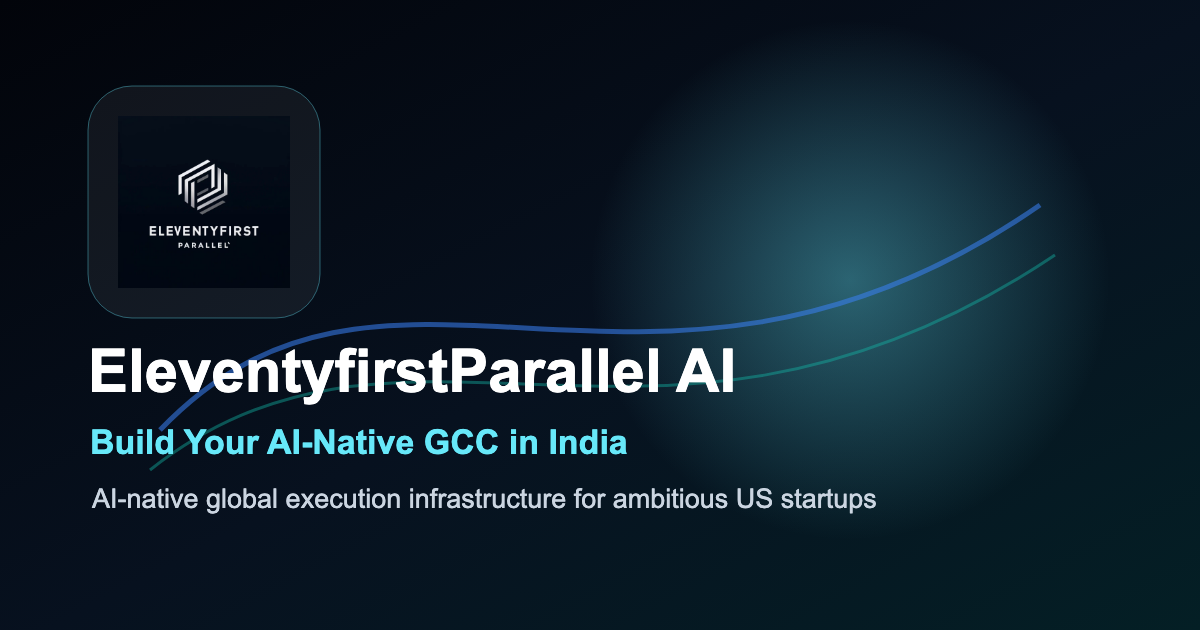
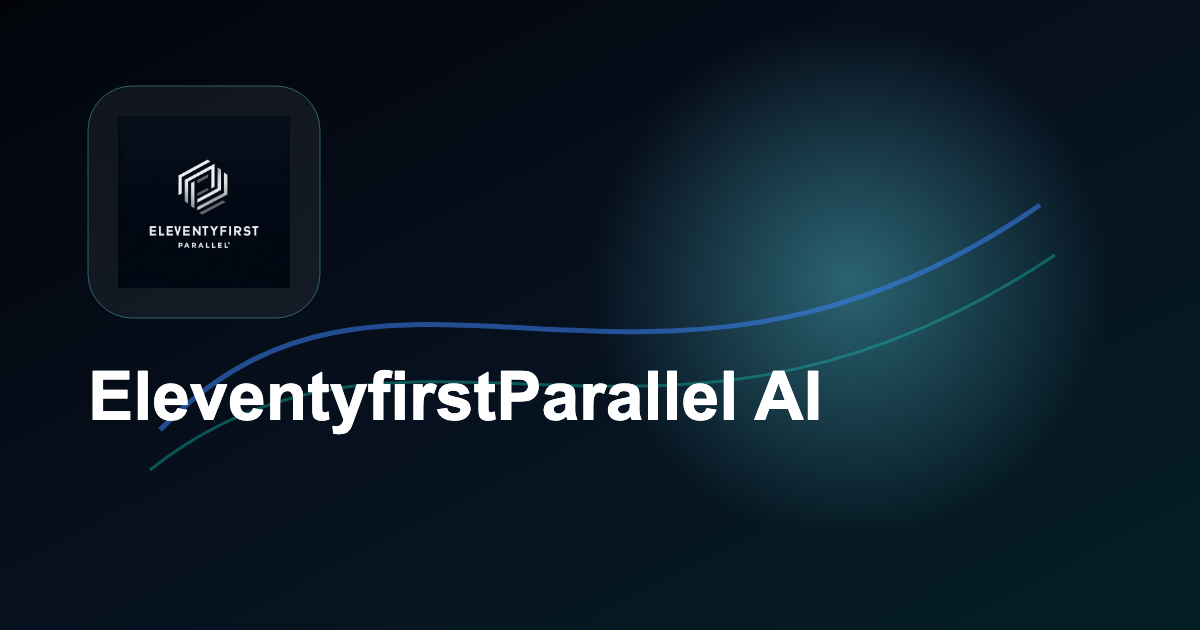
remove GCC OG

Changed region(s): [[0.0617, 0.5429, 0.7092, 0.7238], [0.0617, 0.754, 0.74, 0.8143]]

diff --git a/dist/index.html b/dist/index.html
@@ -3,16 +3,16 @@
   <head>
     <meta charset="UTF-8" />
     <meta name="viewport" content="width=device-width, initial-scale=1.0" />
-    <title>EleventyfirstParallel AI | AI-Native GCCs in India</title>
+    <title>EleventyfirstParallel AI</title>
     <meta
       name="description"
       content="Helping US startups build AI-native GCCs in India across product, engineering, AI operations, governance, and scale."
     />
     <meta name="theme-color" content="#02040a" />
-    <meta property="og:title" content="Build Your AI-Native GCC in India" />
+    <meta property="og:title" content="EleventyfirstParallel AI" />
     <meta
       property="og:description"
-      content="AI-native global execution infrastructure for ambitious US startups."
+      content="EleventyfirstParallel AI"
     />
     <meta property="og:url" content="https://www.eleventyfirstparallel.in/" />
     <meta property="og:site_name" content="EleventyfirstParallel AI" />
@@ -22,12 +22,12 @@
     <meta property="og:image:type" content="image/png" />
     <meta property="og:image:width" content="1200" />
     <meta property="og:image:height" content="630" />
-    <meta property="og:image:alt" content="EleventyfirstParallel AI logo and AI-native GCC positioning" />
+    <meta property="og:image:alt" content="EleventyfirstParallel AI logo" />
     <meta name="twitter:card" content="summary_large_image" />
-    <meta name="twitter:title" content="Build Your AI-Native GCC in India" />
+    <meta name="twitter:title" content="EleventyfirstParallel AI" />
     <meta
       name="twitter:description"
-      content="AI-native global execution infrastructure for ambitious US startups."
+      content="EleventyfirstParallel AI"
     />
     <meta name="twitter:image" content="https://www.eleventyfirstparallel.in/og-eptech.png" />
     <link rel="canonical" href="https://www.eleventyfirstparallel.in/" />

diff --git a/index.html b/index.html
@@ -3,16 +3,16 @@
   <head>
     <meta charset="UTF-8" />
     <meta name="viewport" content="width=device-width, initial-scale=1.0" />
-    <title>EleventyfirstParallel AI | AI-Native GCCs in India</title>
+    <title>EleventyfirstParallel AI</title>
     <meta
       name="description"
       content="Helping US startups build AI-native GCCs in India across product, engineering, AI operations, governance, and scale."
     />
     <meta name="theme-color" content="#02040a" />
-    <meta property="og:title" content="Build Your AI-Native GCC in India" />
+    <meta property="og:title" content="EleventyfirstParallel AI" />
     <meta
       property="og:description"
-      content="AI-native global execution infrastructure for ambitious US startups."
+      content="EleventyfirstParallel AI"
     />
     <meta property="og:url" content="https://www.eleventyfirstparallel.in/" />
     <meta property="og:site_name" content="EleventyfirstParallel AI" />
@@ -22,12 +22,12 @@
     <meta property="og:image:type" content="image/png" />
     <meta property="og:image:width" content="1200" />
     <meta property="og:image:height" content="630" />
-    <meta property="og:image:alt" content="EleventyfirstParallel AI logo and AI-native GCC positioning" />
+    <meta property="og:image:alt" content="EleventyfirstParallel AI logo" />
     <meta name="twitter:card" content="summary_large_image" />
-    <meta name="twitter:title" content="Build Your AI-Native GCC in India" />
+    <meta name="twitter:title" content="EleventyfirstParallel AI" />
     <meta
       name="twitter:description"
-      content="AI-native global execution infrastructure for ambitious US startups."
+      content="EleventyfirstParallel AI"
     />
     <meta name="twitter:image" content="https://www.eleventyfirstparallel.in/og-eptech.png" />
     <link rel="canonical" href="https://www.eleventyfirstparallel.in/" />
